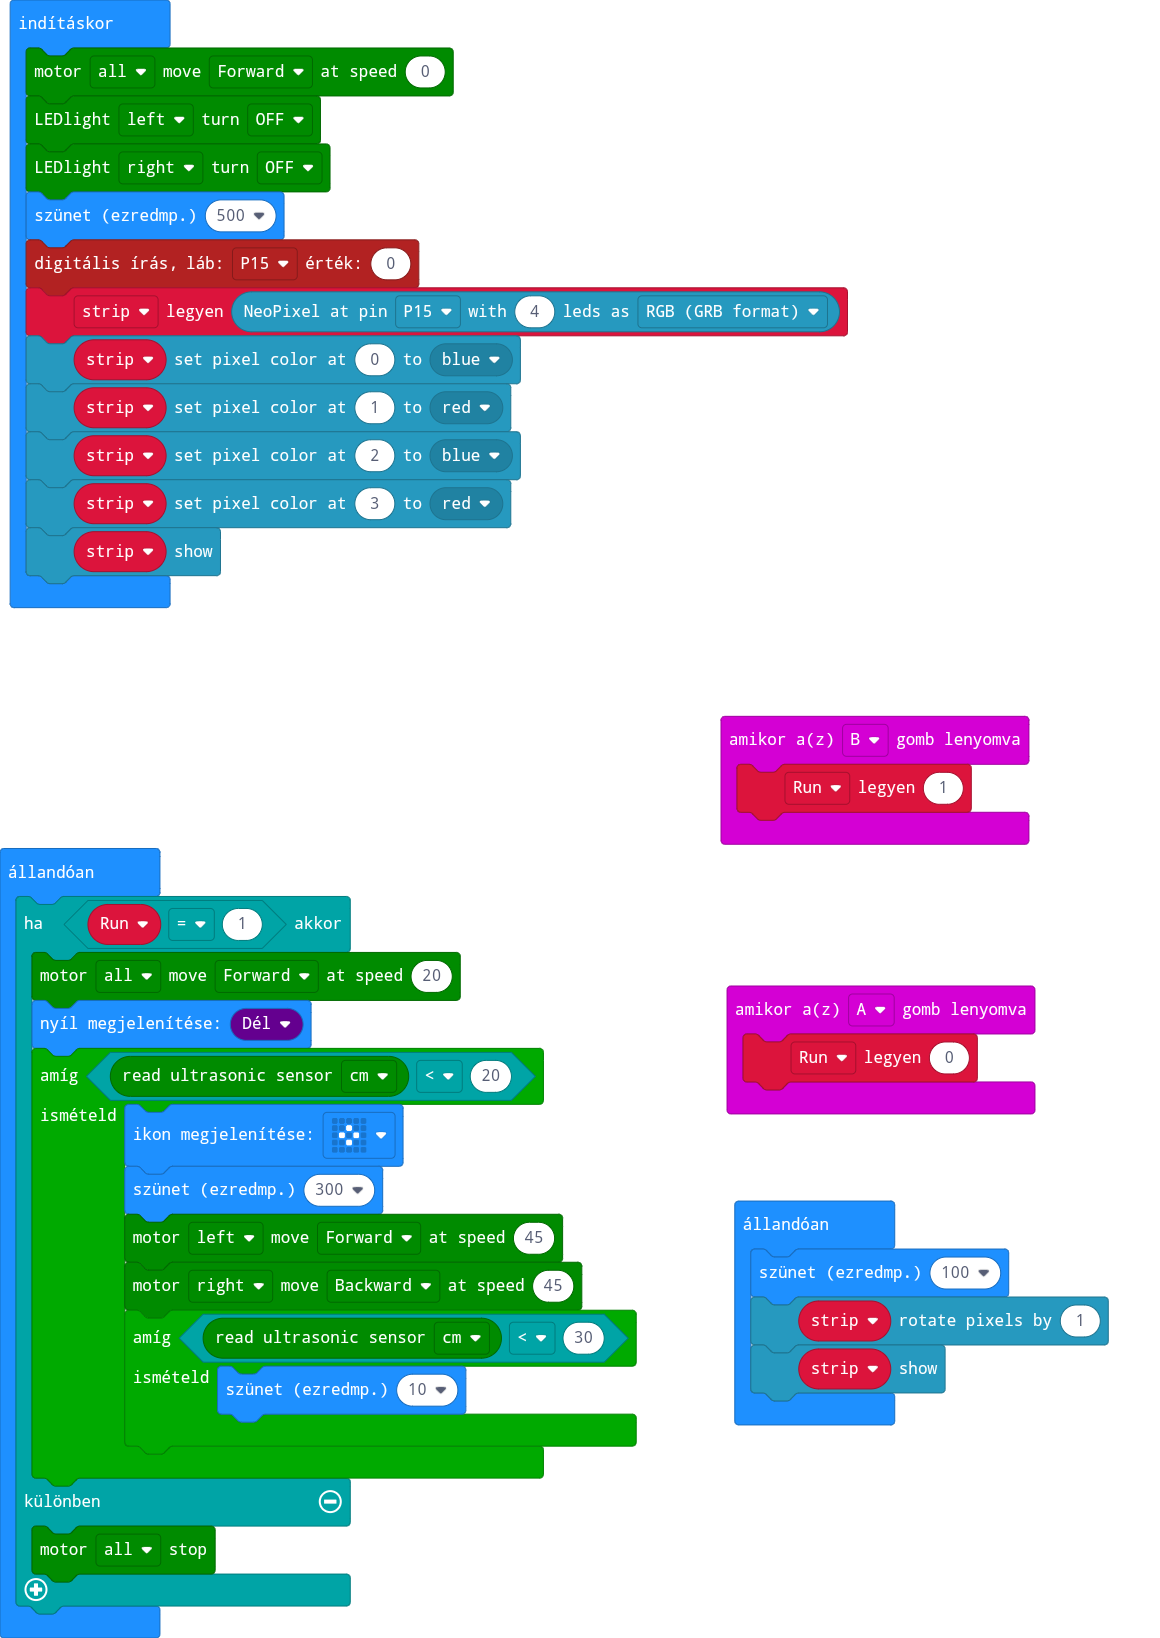
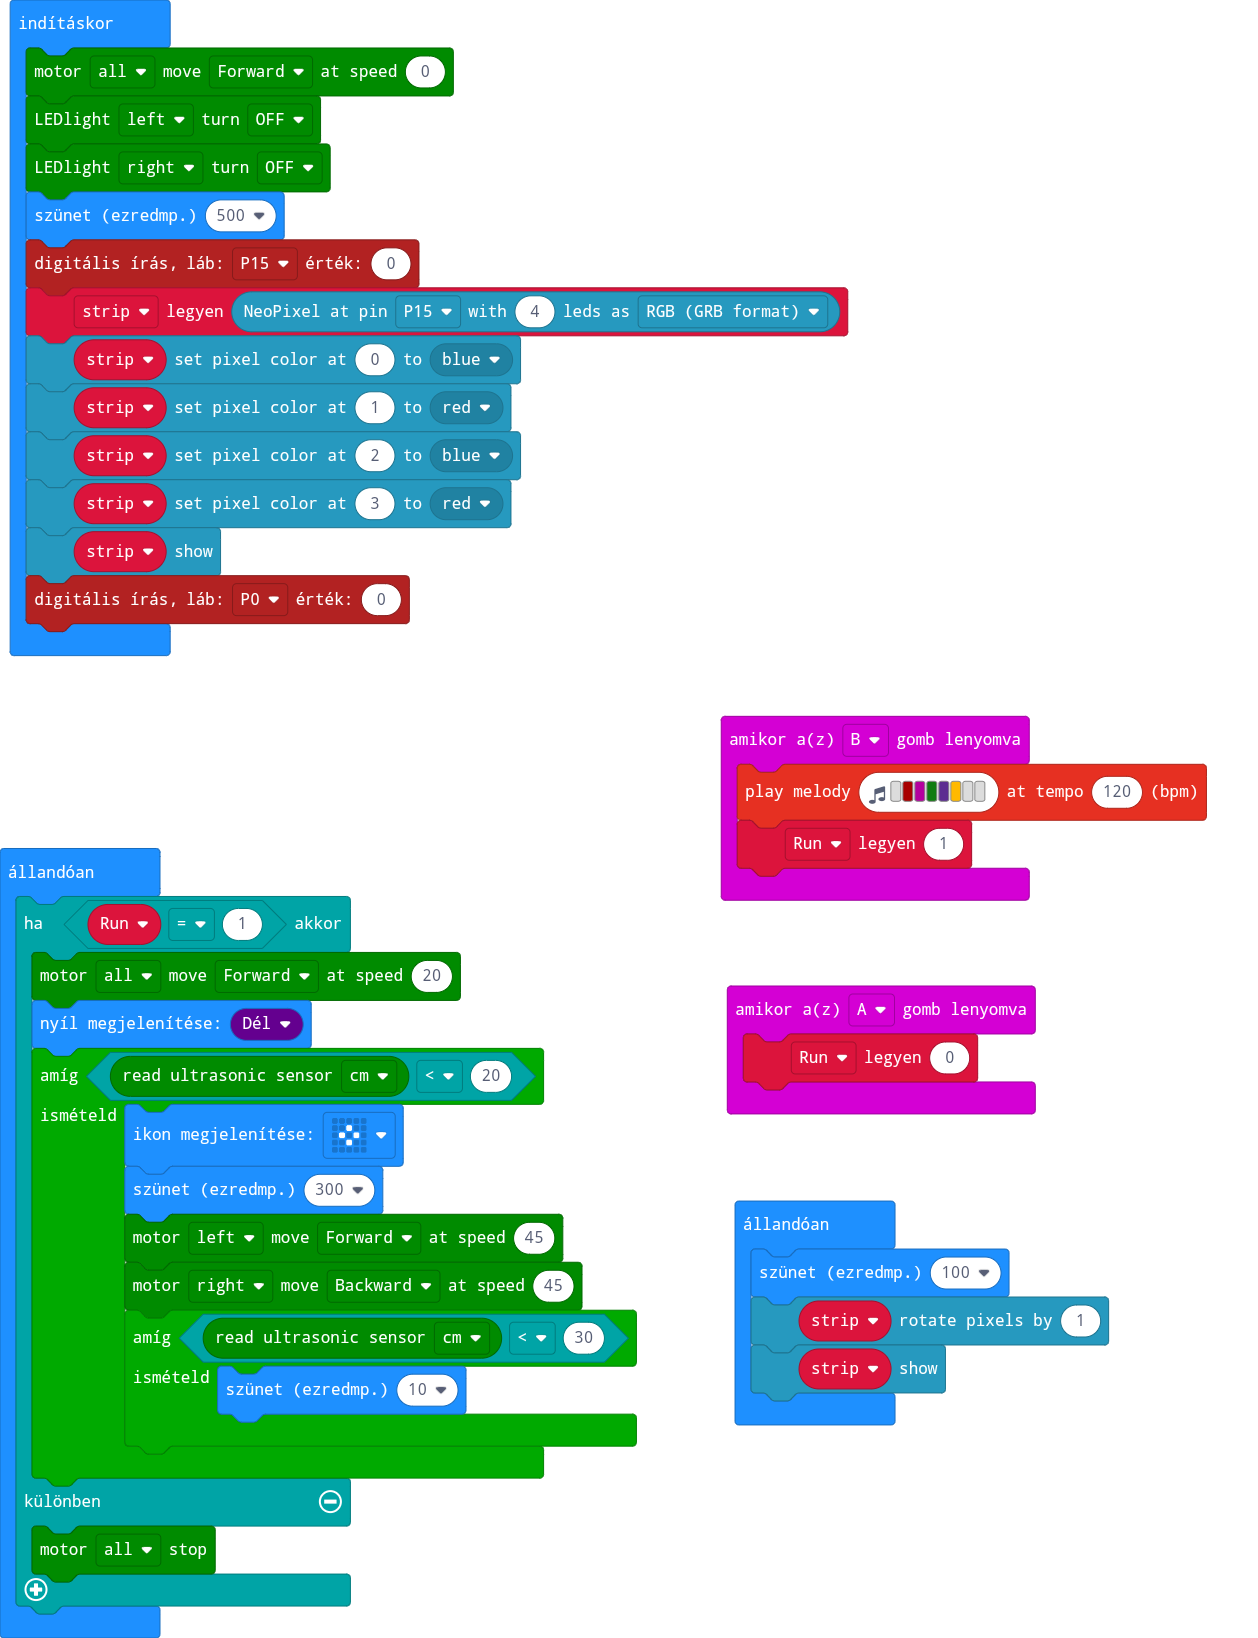
Update main.blocks, main.ts

diff --git a/main.ts b/main.ts
@@ -2,6 +2,7 @@ input.onButtonPressed(Button.A, function () {
     Run = 0
 })
 input.onButtonPressed(Button.B, function () {
+    music.playMelody("- C5 C G D A - - ", 120)
     Run = 1
 })
 let Run = 0
@@ -16,6 +17,7 @@ strip.setPixelColor(1, neopixel.colors(NeoPixelColors.Red))
 strip.setPixelColor(2, neopixel.colors(NeoPixelColors.Blue))
 strip.setPixelColor(3, neopixel.colors(NeoPixelColors.Red))
 strip.show()
+pins.digitalWritePin(DigitalPin.P0, 0)
 basic.forever(function () {
     if (Run == 1) {
         maqueen.motorRun(maqueen.Motors.All, maqueen.Dir.CW, 20)
